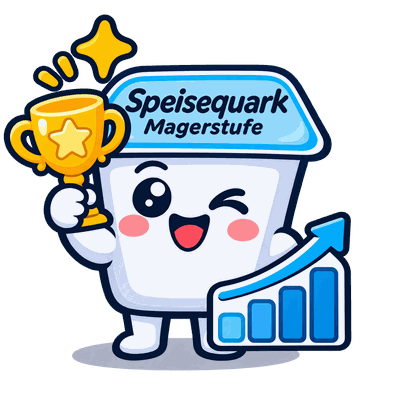
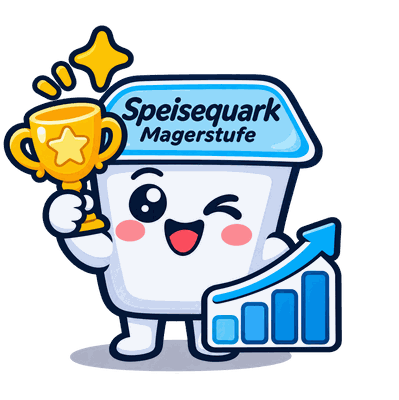
v270: Mittags-Becher 11:00–14:30
Mittags-Serie (html[data-noon]) mit Mittagessen, Shake, Wochenplan,
Maßband und Meal-Prep-Box; Sammelbild in fünf Vorlagen zerlegt,
alle 20 Becher gemeinsam ausgerichtet; Cache v9.

Claude-Session: https://claude.ai/code/session_01TMv9R9yYMCp8CJQHTSCZNX

Changed region(s): [[0.0, 0.03, 0.8722, 0.93]]

diff --git a/index.html b/index.html
@@ -855,6 +855,12 @@ button, select, input { touch-action: manipulation } body:not(.reporting) { touc
 [data-skin="quark"][data-morning][data-tab="prog"] .top::after { background-image: url("maskottchen/quark-morgen-prog.png") }
 [data-skin="quark"][data-morning][data-tab="body"] .top::after { background-image: url("maskottchen/quark-morgen-body.png") }
 [data-skin="quark"][data-morning][data-tab="plan"] .top::after { background-image: url("maskottchen/quark-morgen-plan.png") }
+/* v270: mittags (html[data-noon], 11:00–14:30) Becher mit Mittagessen, Shake, Plan, Maßband und Meal Prep */
+[data-skin="quark"][data-noon] .top::after { background-image: url("maskottchen/quark-mittag-home.png") }
+[data-skin="quark"][data-noon][data-tab="train"] .top::after { background-image: url("maskottchen/quark-mittag-train.png") }
+[data-skin="quark"][data-noon][data-tab="prog"] .top::after { background-image: url("maskottchen/quark-mittag-prog.png") }
+[data-skin="quark"][data-noon][data-tab="body"] .top::after { background-image: url("maskottchen/quark-mittag-body.png") }
+[data-skin="quark"][data-noon][data-tab="plan"] .top::after { background-image: url("maskottchen/quark-mittag-plan.png") }
 [data-skin="quark"][data-tab="set"] .top::after, [data-skin="quark"] .top:has(.sync.err)::after { display: none } [data-skin="quark"][data-tab="set"] .top { min-height: 0 }
 @media (max-width: 380px) { [data-skin="quark"] .top::after { left: 92px; width: 90px; height: 80px; top: -2px } [data-skin="quark"] .top.haski::after { left: 50% } }
 /* v259 (Vorlage des Nutzers aus ChatGPT): Design „Hähnchen, Reis & Brokkoli“ – warmes Creme, Orange als Akzent, Grün als Zweitfarbe,
@@ -1062,8 +1068,9 @@ body.ndragging, body.ndragging * { -webkit-user-select: none; user-select: none;
   /* Neuerungen: Bei jeder Änderung an der App APP_VERSION um 1 erhöhen und unten einen Eintrag mit dem
      betroffenen Reiter (train, prog, body, plan, data) ergänzen. Nach einem Update zeigt die App die neuen
      Einträge einmal an und markiert die Reiter bis zum nächsten Öffnen mit einem gelben Punkt. */
-  var APP_VERSION = 269; window.TL_VER = APP_VERSION;
+  var APP_VERSION = 270; window.TL_VER = APP_VERSION;
   var CHANGES = [
+    { v: 270, tab: "home", text: "Mahlzeit: Von 11 bis halb drei machen die Quarkbecher Mittagspause – mit Mittagessen, Shake, Wochenplan, Maßband und Meal-Prep-Box." },
     { v: 269, tab: "home", text: "Guten Morgen: Von 6 bis 10 Uhr sind die Quarkbecher frisch aufgestanden – mit Sonne, Kaffee, Frühstück, Morgen-Stretching, Waage und Wecker." },
     { v: 268, tab: "home", text: "Magerquark ist jetzt das Standard-Design (das bisherige heißt „Klassisch“ und bleibt wählbar). Und nachts schlafen die Quarkbecher: ab deiner Schlafenszeit bis 6 Uhr liegen sie in jedem Reiter im Sternenbett." },
     { v: 267, tab: "home", text: "Design „Magerquark“ gibt es jetzt auch dunkel – in tiefem Nachtblau. Es richtet sich nach deiner Einstellung Hell, Dunkel oder Automatisch." },
@@ -2140,7 +2147,7 @@ body.ndragging, body.ndragging * { -webkit-user-select: none; user-select: none;
      (Start: alle 30 min, Rückkehr in die App: alle 5 min), erscheint der Hinweis #upd in der Mitte (seit v85). */
   /* Seit v100 (Fable-Prüfung): Update leert den Cache nicht mehr (sonst fehlten offline zxing/Körperkarte), sondern legt die neue
      index.html vorher in den Cache. Ohne Netz kein Neuladen, damit keine leere Seite entsteht. SWC muss zu CACHE in sw.js passen. */
-  var SWC = "trainingslog-v8", SWF = ["./", "./index.html", "./manifest.webmanifest", "./icon-192.png", "./icon-512.png", "./apple-touch-icon.png", "./inter.woff2", "./space-grotesk.woff2", "./zxing.min.js", "./koerperkarte.png", "./koerperkarte-licht.jpg", "./maskottchen/quark-home.png", "./maskottchen/quark-train.png", "./maskottchen/quark-prog.png", "./maskottchen/quark-body.png", "./maskottchen/quark-plan.png", "./maskottchen/quark-nacht-home.png", "./maskottchen/quark-nacht-train.png", "./maskottchen/quark-nacht-prog.png", "./maskottchen/quark-nacht-body.png", "./maskottchen/quark-nacht-plan.png", "./maskottchen/quark-morgen-home.png", "./maskottchen/quark-morgen-train.png", "./maskottchen/quark-morgen-prog.png", "./maskottchen/quark-morgen-body.png", "./maskottchen/quark-morgen-plan.png"];
+  var SWC = "trainingslog-v9", SWF = ["./", "./index.html", "./manifest.webmanifest", "./icon-192.png", "./icon-512.png", "./apple-touch-icon.png", "./inter.woff2", "./space-grotesk.woff2", "./zxing.min.js", "./koerperkarte.png", "./koerperkarte-licht.jpg", "./maskottchen/quark-home.png", "./maskottchen/quark-train.png", "./maskottchen/quark-prog.png", "./maskottchen/quark-body.png", "./maskottchen/quark-plan.png", "./maskottchen/quark-nacht-home.png", "./maskottchen/quark-nacht-train.png", "./maskottchen/quark-nacht-prog.png", "./maskottchen/quark-nacht-body.png", "./maskottchen/quark-nacht-plan.png", "./maskottchen/quark-morgen-home.png", "./maskottchen/quark-morgen-train.png", "./maskottchen/quark-morgen-prog.png", "./maskottchen/quark-morgen-body.png", "./maskottchen/quark-morgen-plan.png", "./maskottchen/quark-mittag-home.png", "./maskottchen/quark-mittag-train.png", "./maskottchen/quark-mittag-prog.png", "./maskottchen/quark-mittag-body.png", "./maskottchen/quark-mittag-plan.png"];
   function cacheHeal() { /* fehlende Offline-Dateien nachladen (z. B. nach altem Update mit Cache-Leeren) */
     if (!window.caches || navigator.onLine === false || location.protocol === "file:" || !("serviceWorker" in navigator)) return;
     caches.open(SWC).then(function (c) { SWF.forEach(function (f) { c.match(f, { ignoreSearch: true }).then(function (h) { if (!h) c.add(f).catch(function () {}); }); }); }).catch(function () {});
@@ -6578,13 +6585,15 @@ body.ndragging, body.ndragging * { -webkit-user-select: none; user-select: none;
   function cafLatest(room, bedMs, now) { if (room <= 0 || cafAmt(90, bedMs - now) > room) return now; var lo = now, hi2 = bedMs; for (var it = 0; it < 40; it++) { var md = (lo + hi2) / 2; if (cafAmt(90, bedMs - md) <= room) lo = md; else hi2 = md; } return lo; }
   function bedTime() { var b = S.person && HMRE.test(S.person.bed || "") ? S.person.bed : "23:00", d = new Date(), m = /^(\d{2}):(\d{2})$/.exec(b); d.setHours(+m[1], +m[2], 0, 0); if (+m[1] < 12) d.setDate(d.getDate() + 1); return { ms: d.getTime(), hm: b }; }
   /* v268 (Wunsch des Nutzers): Nachts schlafen die Quarkbecher – von der Schlafenszeit (Einstellungen, sonst 23:00) bis 6 Uhr.
-     Setzt html[data-night]; die Bilder wechseln per CSS nur im Design Magerquark (hell und dunkel). v269: dazu html[data-morning] 6–10 Uhr. */
+     Setzt html[data-night]; die Bilder wechseln per CSS nur im Design Magerquark (hell und dunkel). v269: dazu html[data-morning] 6–10 Uhr, v270 html[data-noon] 11:00–14:30. */
   function nightSet() {
     var b = S.person && HMRE.test(S.person.bed || "") ? S.person.bed : "23:00", m = /^(\d{2}):(\d{2})$/.exec(b), bm = +m[1] * 60 + +m[2],
       d = new Date(), nm = d.getHours() * 60 + d.getMinutes(), on = bm >= 360 ? (nm >= bm || nm < 360) : (nm >= bm && nm < 360), de = document.documentElement;
     if (on !== (de.dataset.night === "1")) { if (on) de.dataset.night = "1"; else delete de.dataset.night; }
     var mo = !on && nm >= 360 && nm < 600; /* v269: morgens 6–10 Uhr wache Becher mit Sonne und Frühstück (html[data-morning]) */
     if (mo !== (de.dataset.morning === "1")) { if (mo) de.dataset.morning = "1"; else delete de.dataset.morning; }
+    var no = !on && nm >= 660 && nm < 870; /* v270: mittags 11:00–14:30 (wie Mahlzeit „Mittag“) Becher beim Mittagessen (html[data-noon]) */
+    if (no !== (de.dataset.noon === "1")) { if (no) de.dataset.noon = "1"; else delete de.dataset.noon; }
   }
   /* v112 (Wunsch des Nutzers): Koffeinspiegel über den Tag. Jede Einnahme hebt sofort an, Abbau mit CAF_HL. Von der ersten Einnahme (volle Stunde) bis 1 h nach der Schlafenszeit. */
   /* v127 (Nutzer: Energy um 22 Uhr, nach Mitternacht stand der Zähler auf null): Einnahmen tragen eine absolute Zeit (cafMs),

diff --git a/sw.js b/sw.js
@@ -1,7 +1,7 @@
 /* Trainingslog – Service Worker: macht die App offline nutzbar.
    Antwortet aus dem Cache und holt im Hintergrund die neue Fassung. Anfragen mit dem Parameter „fresh“
    (Versionsprüfung der App) gehen direkt ans Netz. CACHE nur ändern, wenn sich FILES ändert – dann auch SWC/SWF in index.html anpassen (cacheHeal). */
-const CACHE = "trainingslog-v8";
+const CACHE = "trainingslog-v9";
 const FILES = [
   "./",
   "./index.html",
@@ -28,7 +28,12 @@ const FILES = [
   "./maskottchen/quark-morgen-train.png",
   "./maskottchen/quark-morgen-prog.png",
   "./maskottchen/quark-morgen-body.png",
-  "./maskottchen/quark-morgen-plan.png"
+  "./maskottchen/quark-morgen-plan.png",
+  "./maskottchen/quark-mittag-home.png",
+  "./maskottchen/quark-mittag-train.png",
+  "./maskottchen/quark-mittag-prog.png",
+  "./maskottchen/quark-mittag-body.png",
+  "./maskottchen/quark-mittag-plan.png"
 ];
 
 self.addEventListener("install", (event) => {

diff --git a/app/design/quark-maskottchen.py b/app/design/quark-maskottchen.py
@@ -1,12 +1,13 @@
 # Design „Magerquark“: Quark-Maskottchen je Reiter (seit v265, Vorlagen seit v266 einzeln, Schlaf-Serie seit v268).
 # Quelle: Einzelbilder des Nutzers aus ChatGPT (1254 × 1254 px, transparent, ohne Markennamen) in
 # app/design/quark-vorlagen/{home,train,prog,body,plan}.png (Tag) und nacht-{…}.png (schlafend, ab Schlafenszeit bis 6 Uhr;
-# bei nacht-home war ein Karomuster ins Bild gemalt – einmalig entfernt) und morgen-{…}.png (6–10 Uhr, seit v269).
-# Dieses Skript richtet alle fünfzehn Becher aneinander aus
+# bei nacht-home war ein Karomuster ins Bild gemalt – einmalig entfernt) und morgen-{…}.png (6–10 Uhr, seit v269) und mittag-{…}.png (11:00–14:30, seit v270; aus einem Sammelbild
+# zerlegt und hochskaliert, damit der Deckeltext gleich breit ist).
+# Dieses Skript richtet alle zwanzig Becher aneinander aus
 # (Mitte und Unterkante des Deckeltexts „Speisequark Magerstufe“), schneidet alle fünf auf dieselbe Fläche zu und
 # schreibt kleine PNGs mit 256 Farben:
 #   python3 app/design/quark-maskottchen.py app/design/quark-vorlagen maskottchen
-# Ergebnis: maskottchen/quark-{…}.png, quark-nacht-{…}.png und quark-morgen-{…}.png, eingebunden in index.html über
+# Ergebnis: maskottchen/quark-{…}.png, quark-nacht-{…}.png, quark-morgen-{…}.png und quark-mittag-{…}.png, eingebunden in index.html über
 # [data-skin="quark"] … .top::after, offline über sw.js (FILES) und SWF in index.html, iPhone-App über app/copy-web.mjs.
 import sys
 import numpy as np
@@ -27,7 +28,7 @@ def anchor(a):
     ty, tx = np.where(txt)
     return (tx.min() + tx.max()) / 2, ty.max(), tx.max() - tx.min()
 
-SETS = [("", "quark-"), ("nacht-", "quark-nacht-"), ("morgen-", "quark-morgen-")]      # (Vorlagen-Präfix, Ausgabe-Präfix)
+SETS = [("", "quark-"), ("nacht-", "quark-nacht-"), ("morgen-", "quark-morgen-"), ("mittag-", "quark-mittag-")]      # (Vorlagen-Präfix, Ausgabe-Präfix)
 
 def main(src, out):
     jobs = [(pre_in + n, pre_out + n) for pre_in, pre_out in SETS for n in NAMES]

diff --git a/AGENTS.md b/AGENTS.md
@@ -2,7 +2,7 @@
 
 Diese Datei ist der gemeinsame Stand für alle KI-Assistenten, die an diesem Repo arbeiten (Claude, ChatGPT/Codex). **Zuerst lesen, bei jeder Änderung mitpflegen.** Kurz halten: nur der aktuelle Stand, keine Geschichte (die steht in `VERLAUF.md`). Das Repo ist öffentlich – hier nichts Persönliches eintragen.
 
-**Stand:** v269 (22.11.2026)
+**Stand:** v270 (23.11.2026)
 
 ## Vor jeder Arbeit
 1. `git pull` und `git log --oneline -15`: Hat der andere Assistent seit dem letzten Mal etwas geändert? Dann diese Änderungen zuerst durchsehen und Auffälligkeiten dem Besitzer melden, nicht ungefragt im fremden Bereich umbauen.
@@ -54,7 +54,7 @@ Diese Datei ist der gemeinsame Stand für alle KI-Assistenten, die an diesem Rep
   - **Plan:** Sätze pro Muskelgruppe, Trainingstage, Plan teilen/Plan-Code, Assistent, Übungskatalog.
 - **Zahnrad:** Design, Hell/Dunkel, Farbenblind, Haptik, Trainingsart; Daten & Hilfe (Sicherung, Export, Bericht, Profile, Hilfe, Was ist neu?).
 - **Modi:** Kraft, Ausdauer (ohne Plan), beides, „Nur Ernährung“ (nur Ernährung und Körper) – `TABS_FOOD`/`TABS_CARDIO`.
-- **Designs:** Magerquark ist seit v268 das Standard-Design (ohne Merker `trainingslog-look` → „quark“; das frühere „Standard“ heißt „Klassisch“, Kennung "", gemerkt als „std“). Magerquark (`data-skin="quark"`, seit v267 hell und dunkel „Nachtblau“ – folgt Hell/Dunkel, Farben über Tokens `--q…`; seit v265 je Reiter ein Quarkbecher als fertiges Bild `maskottchen/quark-*.png`, nachts (`html[data-night]`, Schlafenszeit bis 6 Uhr, `nightSet()`) schlafend `quark-nacht-*.png`, morgens (`html[data-morning]`, 6–10 Uhr) `quark-morgen-*.png`; erzeugt mit `app/design/quark-maskottchen.py` aus den Einzelvorlagen in `app/design/quark-vorlagen/`; bei geänderten Bildern `CACHE` in `sw.js` und `SWC` hochzählen), Hähnchen, Reis & Brokkoli (`data-skin="huhn"`, hell, seit v259), Sky Blue (`data-skin="sky"`, hell, seit v263, ersetzt „Gym Kawaii“; je Reiter ein Küken über `html[data-tab]`, seit v264 eine Figur im Kawaii-/Chibi-Stil in fünf Posen, 220×108 px; Bilder nur über `python3 app/design/sky-gen.py --apply index.html` ändern, nicht von Hand; Dunkelmodus später), Aurora, Diät (`data-look="hell"`), Aufbau (`data-look="winter"`). Designs mit eigenem `data-skin` stehen in `SKINS` (Wert = erzwungenes Hell/Dunkel oder "" = folgt der Einstellung); interne Kennungen nicht umbenennen (Merker beim Nutzer).
+- **Designs:** Magerquark ist seit v268 das Standard-Design (ohne Merker `trainingslog-look` → „quark“; das frühere „Standard“ heißt „Klassisch“, Kennung "", gemerkt als „std“). Magerquark (`data-skin="quark"`, seit v267 hell und dunkel „Nachtblau“ – folgt Hell/Dunkel, Farben über Tokens `--q…`; seit v265 je Reiter ein Quarkbecher als fertiges Bild `maskottchen/quark-*.png`, nachts (`html[data-night]`, Schlafenszeit bis 6 Uhr, `nightSet()`) schlafend `quark-nacht-*.png`, morgens (`html[data-morning]`, 6–10 Uhr) `quark-morgen-*.png`, mittags (`html[data-noon]`, 11:00–14:30) `quark-mittag-*.png`; erzeugt mit `app/design/quark-maskottchen.py` aus den Einzelvorlagen in `app/design/quark-vorlagen/`; bei geänderten Bildern `CACHE` in `sw.js` und `SWC` hochzählen), Hähnchen, Reis & Brokkoli (`data-skin="huhn"`, hell, seit v259), Sky Blue (`data-skin="sky"`, hell, seit v263, ersetzt „Gym Kawaii“; je Reiter ein Küken über `html[data-tab]`, seit v264 eine Figur im Kawaii-/Chibi-Stil in fünf Posen, 220×108 px; Bilder nur über `python3 app/design/sky-gen.py --apply index.html` ändern, nicht von Hand; Dunkelmodus später), Aurora, Diät (`data-look="hell"`), Aufbau (`data-look="winter"`). Designs mit eigenem `data-skin` stehen in `SKINS` (Wert = erzwungenes Hell/Dunkel oder "" = folgt der Einstellung); interne Kennungen nicht umbenennen (Merker beim Nutzer).
 - **Rundgang** (`TOUR`): Willkommen → Ernährung → Training → Fortschritt → Körper → Plan → Zahnrad → Einstellungen.
 
 ## Offen

diff --git a/VERLAUF.md b/VERLAUF.md
@@ -295,3 +295,4 @@ Repo ist öffentlich: hier nur technische Entscheidungen, keine persönlichen Da
 - v267 (Nutzer: „dafür jetzt noch die Dunkel-Version“, Wahl aus zwei Vorschauen: A „Nachtblau“): Magerquark folgt Hell/Dunkel/Automatisch. `SKINS.quark` "light" → "" (Kopf-Skript erzwingt Hell nur noch für huhn/sky), `themeChips` sperrt nur Designs mit festem Hell/Dunkel (`fx`). Feste Farben des Quark-Blocks in Tokens umgezogen (`--qblock`, `--qbedge`, `--qbin`, `--qbsh`, `--qtab`, `--qchip`, `--qchipedge`, `--qfocus`, `--qfedge`, `--qg1–3`); dunkle Werte in `:root[data-skin="quark"][data-theme="dark"]` und per `prefers-color-scheme` bei Automatisch (Grund #0b1424, Karten #13203a, Akzent #6b97ff). `metaColors()` läuft jetzt auch beim Start (vorher nur beim Umschalten), Magerquark dunkel → #0b1424.
 - v268 (Nutzer: Schlaf-Serie „für die Nacht-Version“, Antwort „1C, 2“ = je Reiter eigene Schlaf-Version, nur nachts ab Schlafenszeit; „die Quark-Oberfläche soll dann Standard werden“): (1) `nightSet()` setzt `html[data-night]` von `person.bed` (sonst 23:00) bis 06:00 – Aufruf in `renderAll0`, im 30-s-Takt und bei `visibilitychange`; CSS `[data-skin="quark"][data-night] … .top::after` mit `maskottchen/quark-nacht-*.png` (hell und dunkel). Vorlagen `app/design/quark-vorlagen/nacht-*.png` (bei nacht-home Karomuster einmalig entfernt); `quark-maskottchen.py` richtet Tag und Nacht gemeinsam aus (Fläche 1276 × 1261 → 405 × 400 px). Offline: `sw.js` FILES + `CACHE`/`SWC` v6 → v7, `app/copy-web.mjs`. (2) Magerquark ist Standard: Kopf-Skript nimmt ohne `trainingslog-look` „quark“, `lookSet("")` speichert „std“ (Klassisch), `LOOKS` mit Magerquark vorn, „Standard“ → „Klassisch“, Handbuch angepasst. (3) `app/freunde-build.py` legt Unterordner an (für `maskottchen/`).
 - v269 (Morgen-Serie des Nutzers aus ChatGPT, „einmal alles einbauen und auch die Freunde-App nachziehen“): `nightSet()` setzt zusätzlich `html[data-morning]` 6–10 Uhr (nicht während der Nacht); CSS `[data-skin="quark"][data-morning] … .top::after` mit `quark-morgen-*.png`. Vorlagen `app/design/quark-vorlagen/morgen-*.png`; `quark-maskottchen.py` richtet alle 15 Becher gemeinsam aus (Fläche 1335 × 1301 → 410 × 400 px) und bestimmt die Textmitte vom rechten Rand, wenn der Schriftzug vorn verdeckt ist (Coach-Kappe). Offline: `sw.js` FILES + `CACHE`/`SWC` v7 → v8, `app/copy-web.mjs`. Freunde-Version auf v269 neu erzeugt (Zusammenfassung in `app/freunde-neu.json`, neuer Speicherschlüssel `trainingslog-mzopen` in `STORE` von `app/freunde-build.py`).
+- v270 (Mittags-Serie des Nutzers aus ChatGPT als Sammelbild): `nightSet()` setzt `html[data-noon]` 11:00–14:30 (wie Mahlzeit „Mittag“); CSS `[data-skin="quark"][data-noon] … .top::after` mit `quark-mittag-*.png`. Sammelbild in fünf Vorlagen `app/design/quark-vorlagen/mittag-*.png` zerlegt und auf gleiche Deckeltext-Breite hochskaliert (Faktor 2,23); `quark-maskottchen.py` richtet alle 20 Becher gemeinsam aus (Fläche 1335 × 1339 → 399 × 400 px, alle Becher dadurch ≈ 3 % kleiner). Offline: `sw.js` FILES + `CACHE`/`SWC` v8 → v9, `app/copy-web.mjs`.
